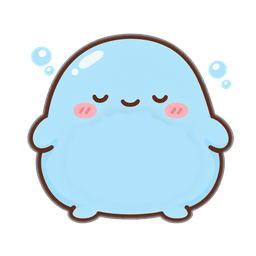
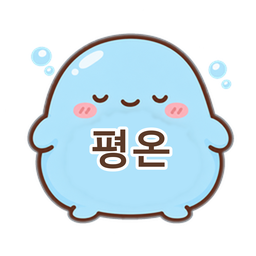
감정 스티커 두 글자 라벨 추가, 캐시 diary-v4

Changed region(s): [[0.3438, 0.4688, 0.6875, 0.6875]]

diff --git a/sw.js b/sw.js
@@ -1,5 +1,5 @@
 /* 일기장 서비스워커: 한 번 열어 두면 인터넷 없이도 열려요. 일기 데이터는 건드리지 않고 화면·그림 파일만 보관해요. */
-const CACHE = "diary-v3";
+const CACHE = "diary-v4";
 const STICKERS = [
  "./stickers/blob/emo-angry.png",
  "./stickers/blob/emo-anxious.png",
